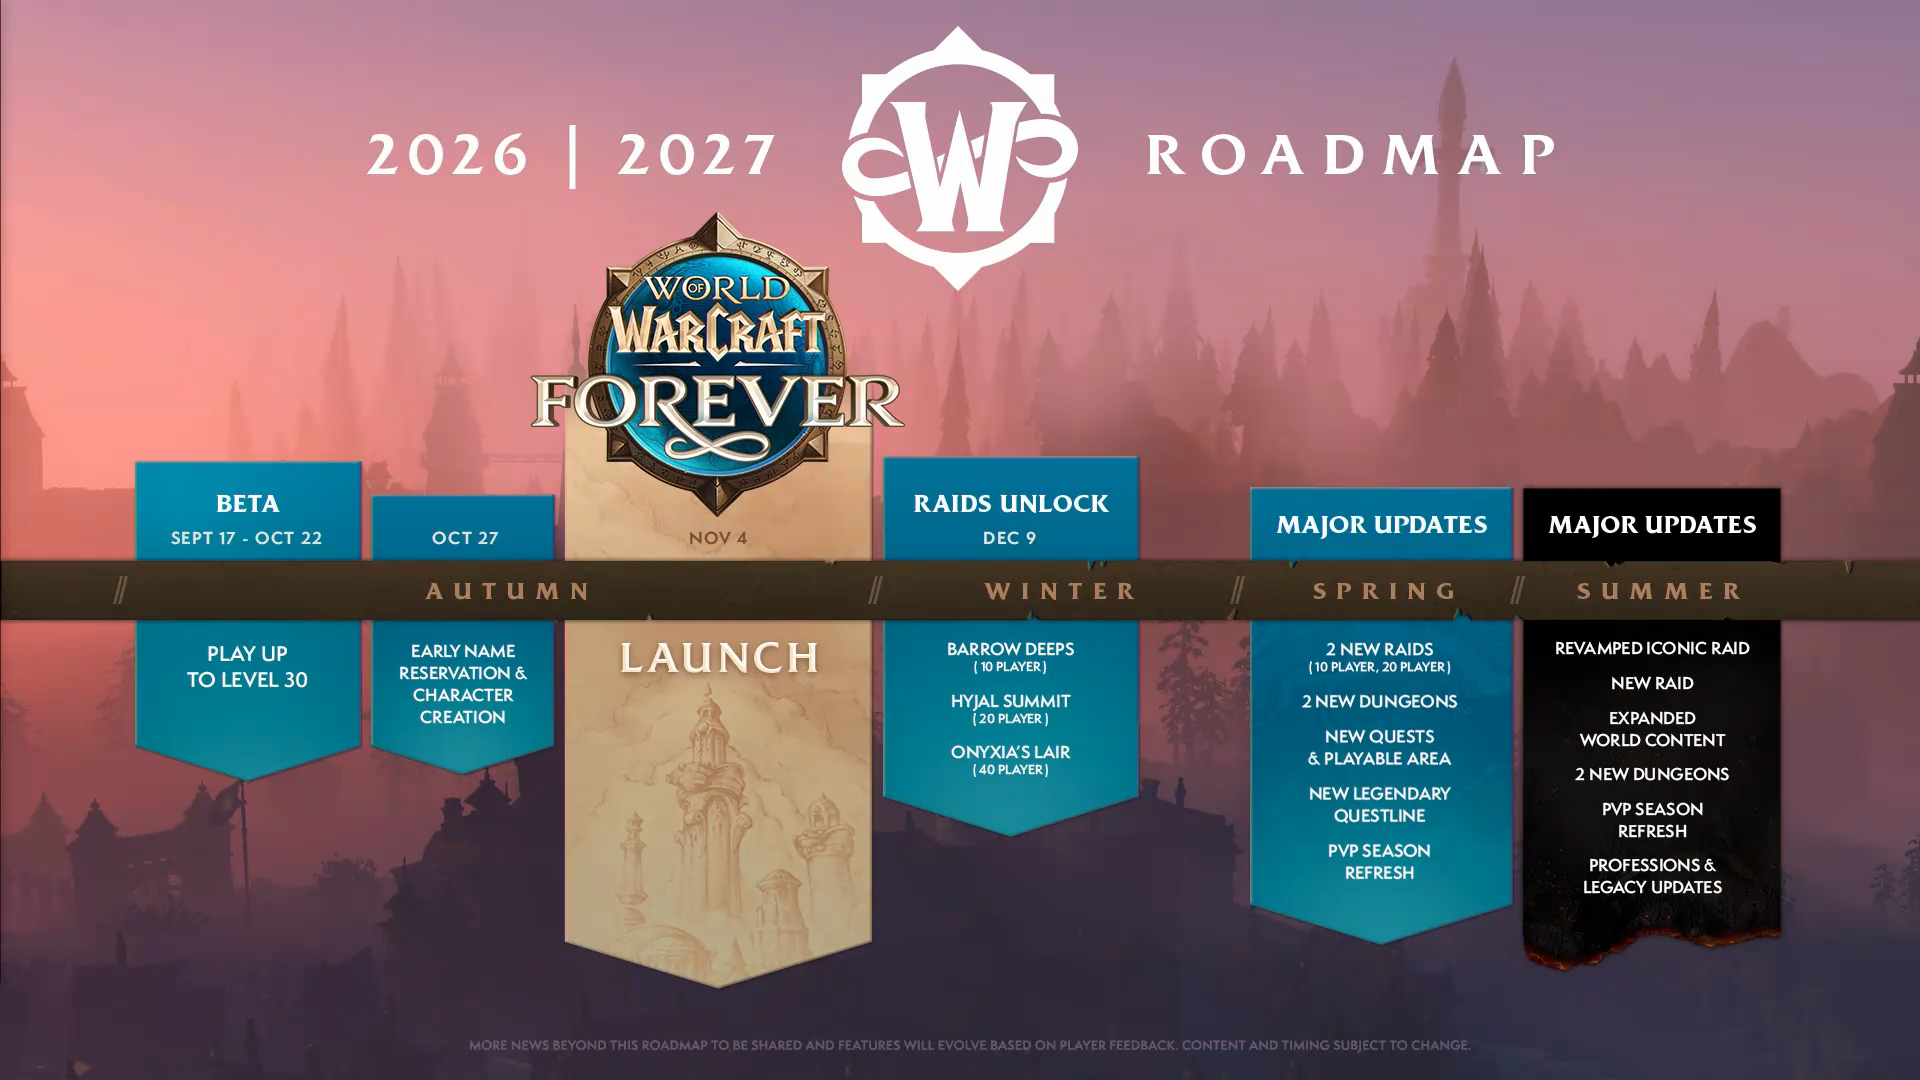
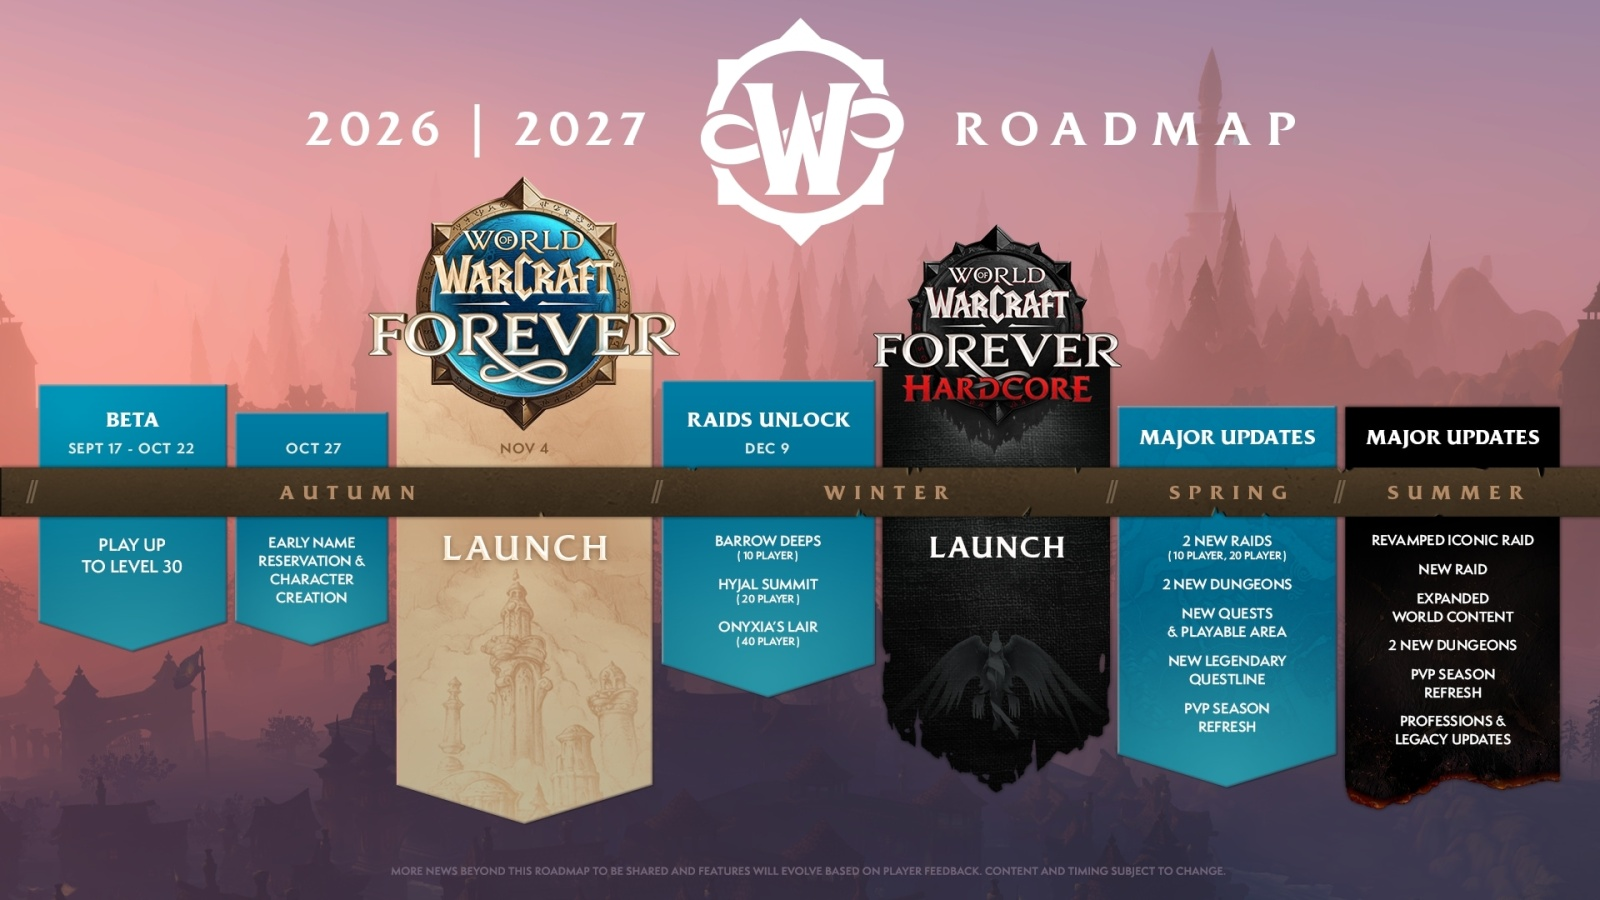
Update roadmap image (adds Forever Hardcore launch in winter)

Changed region(s): [[0.0, 0.1867, 1.0, 0.9333], [0.4375, 0.0311, 0.5625, 0.28], [0.0, 0.1556, 0.0312, 0.1867]]

diff --git a/index.html b/index.html
@@ -355,7 +355,7 @@ select { background: var(--cell); border: 1px solid var(--line); border-radius: 
       </div>
     </div>
     <figure class="road">
-      <button type="button" data-act="zoom" aria-label="Открыть дорожную карту крупно"><img src="roadmap.png" alt="Дорожная карта World of Warcraft Forever 2026–2027. Бета с 17 сентября по 22 октября, 27 октября ранняя резервация имён и создание персонажей, запуск 4 ноября, открытие рейдов 9 декабря (Barrow Deeps, Hyjal Summit, Onyxia's Lair), крупные обновления весной и летом."></button>
+      <button type="button" data-act="zoom" aria-label="Открыть дорожную карту крупно"><img src="roadmap.png" alt="Дорожная карта World of Warcraft Forever 2026–2027. Бета с 17 сентября по 22 октября, 27 октября ранняя резервация имён и создание персонажей, запуск 4 ноября, открытие рейдов 9 декабря (Barrow Deeps, Hyjal Summit, Onyxia's Lair), зимой запуск Forever Hardcore, крупные обновления весной и летом."></button>
       <figcaption>Дорожная карта 2026–2027. Нажми, чтобы открыть крупно.</figcaption>
     </figure>
   </section>
